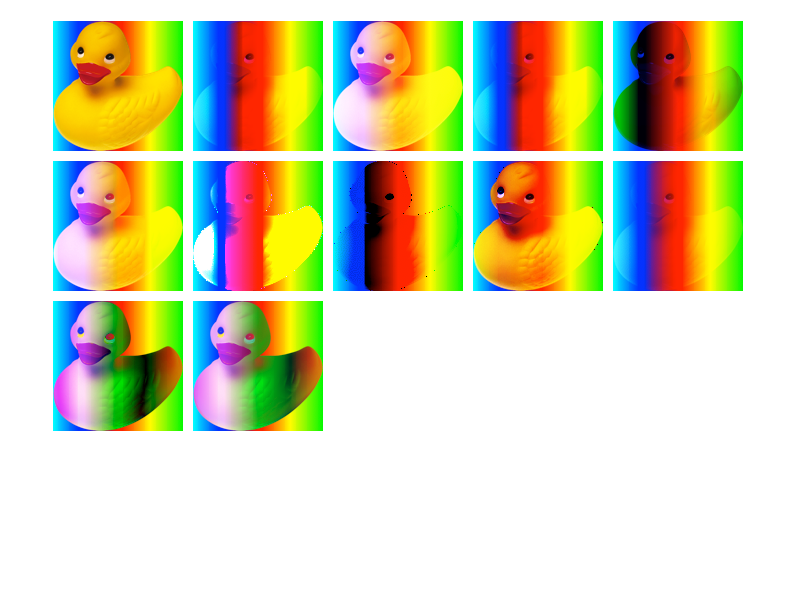
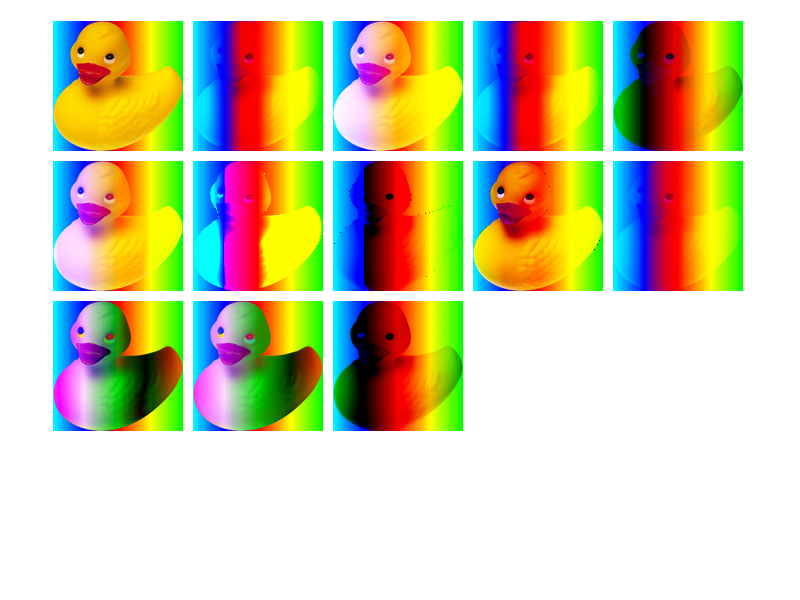
Support "plus-darker" in mix-blend mode https://bugs.webkit.org/show_bug.cgi?id=140646 <rdar://problem/19523370>
Reviewed by Simon Fraser.

Source/WebCore:

Support the "plus-darker" blending mode to CSS.
See: https://lists.w3.org/Archives/Public/public-fx/2015JanMar/0021.html

Test: css3/blending/svg-blend-plus-darker.html

* css/CSSParser.cpp:
(WebCore::isValidKeywordPropertyAndValue): mix-blend-mode can now accept
the new keyword.
* css/CSSPrimitiveValueMappings.h: Add the mappings.
(WebCore::CSSPrimitiveValue::CSSPrimitiveValue):
(WebCore::CSSPrimitiveValue::operator BlendMode):
* platform/graphics/GraphicsTypes.cpp: Add the new GraphicsType.
* platform/graphics/GraphicsTypes.h:
* platform/graphics/ca/mac/PlatformCAFiltersMac.mm: Map to the CA compositing filter.
(PlatformCAFilters::setBlendingFiltersOnLayer):
* platform/graphics/cg/GraphicsContextCG.cpp:
(WebCore::GraphicsContext::setPlatformCompositeOperation): Map to the CG blending flag.

Source/WebKit2:

Output the appropriate blending type when logging.

* Shared/mac/RemoteLayerTreeTransaction.mm:
(WebKit::RemoteLayerTreeTextStream::operator<<):

LayoutTests:

Add tests and new expected results for plus-darker.

* css3/blending/blend-mode-property-parsing-expected.txt:
* css3/blending/blend-mode-simple-composited.html:
* css3/blending/blend-mode-simple.html:
* css3/blending/script-tests/blend-mode-property-parsing.js:
* css3/blending/svg-blend-plus-darker.html: Added.
* platform/mac/css3/blending/blend-mode-simple-composited-expected.png:
* platform/mac/css3/blending/blend-mode-simple-composited-expected.txt:
[…]

diff --git a/LayoutTests/css3/blending/svg-blend-plus-darker.html b/LayoutTests/css3/blending/svg-blend-plus-darker.html
@@ -1,0 +1,20 @@
+<!DOCTYPE HTML>
+<html>
+<body>
+<svg xmlns="http://www.w3.org/2000/svg" version="1.1" width="400px" height="400px" >
+<defs>
+  <g id="patch">
+    <rect x="0" y="0" width="10" height="40" fill="rgb(255,0,0)"/>
+    <rect x="10" y="0" width="10" height="40" fill="rgb(0,255,0)"/>
+    <rect x="20" y="0" width="10" height="40" fill="rgb(0,0,255)"/>
+    <rect x="30" y="0" width="10" height="40" fill="rgb(127,127,0)"/>
+  </g>
+  <rect x="0" y="0" width="10" height="10" fill="rgb(255,0,0)"/>
+</defs>
+<g transform="scale(4 4)">
+  <use xlink:href="#patch" x="0" y="0" width="40" height="10"></use>
+  <use xlink:href="#patch" x="0" y="0" width="40" height="10" transform="rotate(90 20 20)" style="mix-blend-mode: plus-darker"></use>
+</g>
+</svg>
+</body>
+</html>

diff --git a/LayoutTests/css3/blending/script-tests/blend-mode-property-parsing.js b/LayoutTests/css3/blending/script-tests/blend-mode-property-parsing.js
@@ -43,7 +43,7 @@ function testBlendModeRule(description, rule, expectedLength, expectedValue, exp
     shouldBeType("blendModeRule", "CSSPrimitiveValue");
 }
 
-var blendmodes = ["normal", "multiply", "screen", "overlay", "darken", "lighten", "color-dodge", "color-burn", "hard-light", "soft-light", "difference", "exclusion"];
+var blendmodes = ["normal", "multiply", "screen", "overlay", "darken", "lighten", "color-dodge", "color-burn", "hard-light", "soft-light", "difference", "exclusion", "plus-darker"];
 
 for(x in blendmodes)
    testBlendModeRule("Basic reference", blendmodes[x], 1, blendmodes[x]);

diff --git a/LayoutTests/css3/blending/blend-mode-simple-composited.html b/LayoutTests/css3/blending/blend-mode-simple-composited.html
@@ -34,5 +34,6 @@
         <li><img style="mix-blend-mode: soft-light" src="resources/ducky.png"></li>
         <li><img style="mix-blend-mode: difference" src="resources/ducky.png"></li>
         <li><img style="mix-blend-mode: exclusion" src="resources/ducky.png"></li>
+        <li><img style="mix-blend-mode: plus-darker" src="resources/ducky.png"></li>
     </ul>
 </body>

diff --git a/LayoutTests/css3/blending/blend-mode-simple.html b/LayoutTests/css3/blending/blend-mode-simple.html
@@ -38,5 +38,6 @@
         <li><img style="mix-blend-mode: soft-light" src="resources/ducky.png"></li>
         <li><img style="mix-blend-mode: difference" src="resources/ducky.png"></li>
         <li><img style="mix-blend-mode: exclusion" src="resources/ducky.png"></li>
+        <li><img style="mix-blend-mode: plus-darker" src="resources/ducky.png"></li>
     </ul>
 </body>

diff --git a/Source/WebCore/css/CSSParser.cpp b/Source/WebCore/css/CSSParser.cpp
@@ -815,7 +815,7 @@ static inline bool isValidKeywordPropertyAndValue(CSSPropertyID propertyId, int 
         if (parserContext.isCSSCompositingEnabled && (valueID == CSSValueNormal || valueID == CSSValueMultiply || valueID == CSSValueScreen
             || valueID == CSSValueOverlay || valueID == CSSValueDarken || valueID == CSSValueLighten ||  valueID == CSSValueColorDodge
             || valueID == CSSValueColorBurn || valueID == CSSValueHardLight || valueID == CSSValueSoftLight || valueID == CSSValueDifference
-            || valueID == CSSValueExclusion))
+            || valueID == CSSValueExclusion || valueID == CSSValuePlusDarker))
             return true;
         break;
     case CSSPropertyIsolation:

diff --git a/Source/WebCore/css/CSSPrimitiveValueMappings.h b/Source/WebCore/css/CSSPrimitiveValueMappings.h
@@ -4103,6 +4103,9 @@ template<> inline CSSPrimitiveValue::CSSPrimitiveValue(BlendMode blendMode)
     case BlendModeLuminosity:
         m_value.valueID = CSSValueLuminosity;
         break;
+    case BlendModePlusDarker:
+        m_value.valueID = CSSValuePlusDarker;
+        break;
     }
 }
 
@@ -4143,6 +4146,8 @@ template<> inline CSSPrimitiveValue::operator BlendMode() const
         return BlendModeColor;
     case CSSValueLuminosity:
         return BlendModeLuminosity;
+    case CSSValuePlusDarker:
+        return BlendModePlusDarker;
     default:
         break;
     }

diff --git a/Source/WebCore/platform/graphics/ca/mac/PlatformCAFiltersMac.mm b/Source/WebCore/platform/graphics/ca/mac/PlatformCAFiltersMac.mm
@@ -577,6 +577,9 @@ void PlatformCAFilters::setBlendingFiltersOnLayer(PlatformLayer* layer, const Bl
         case BlendModeScreen:
             filter = [CAFilter filterWithType:kCAFilterScreenBlendMode];
             break;
+        case BlendModePlusDarker:
+            filter = [CAFilter filterWithType:kCAFilterPlusD];
+            break;
         default:
             ASSERT_NOT_REACHED();
     }

diff --git a/Source/WebCore/platform/graphics/cg/GraphicsContextCG.cpp b/Source/WebCore/platform/graphics/cg/GraphicsContextCG.cpp
@@ -1534,6 +1534,9 @@ void GraphicsContext::setPlatformCompositeOperation(CompositeOperator mode, Blen
         case BlendModeLuminosity:
             target = kCGBlendModeLuminosity;
             break;
+        case BlendModePlusDarker:
+            target = kCGBlendModePlusDarker;
+            break;
         default:
             break;
         }

diff --git a/Source/WebKit2/Shared/mac/RemoteLayerTreeTransaction.mm b/Source/WebKit2/Shared/mac/RemoteLayerTreeTransaction.mm
@@ -835,6 +835,7 @@ RemoteLayerTreeTextStream& RemoteLayerTreeTextStream::operator<<(BlendMode blend
     case BlendModeSaturation: ts << "saturation"; break;
     case BlendModeColor: ts << "color"; break;
     case BlendModeLuminosity: ts << "luminosity"; break;
+    case BlendModePlusDarker: ts << "plus-darker"; break;
     }
     return ts;
 }

diff --git a/Source/WebCore/platform/graphics/GraphicsTypes.cpp b/Source/WebCore/platform/graphics/GraphicsTypes.cpp
@@ -65,7 +65,8 @@ static const char* const blendOperatorNames[] = {
     "hue",
     "saturation",
     "color",
-    "luminosity"
+    "luminosity",
+    "plus-darker"
 };
 const int numCompositeOperatorNames = WTF_ARRAY_LENGTH(compositeOperatorNames);
 const int numBlendOperatorNames = WTF_ARRAY_LENGTH(blendOperatorNames);

diff --git a/Source/WebCore/platform/graphics/GraphicsTypes.h b/Source/WebCore/platform/graphics/GraphicsTypes.h
@@ -63,7 +63,8 @@ namespace WebCore {
         BlendModeHue,
         BlendModeSaturation,
         BlendModeColor,
-        BlendModeLuminosity
+        BlendModeLuminosity,
+        BlendModePlusDarker
     };
 
     enum GradientSpreadMethod {
